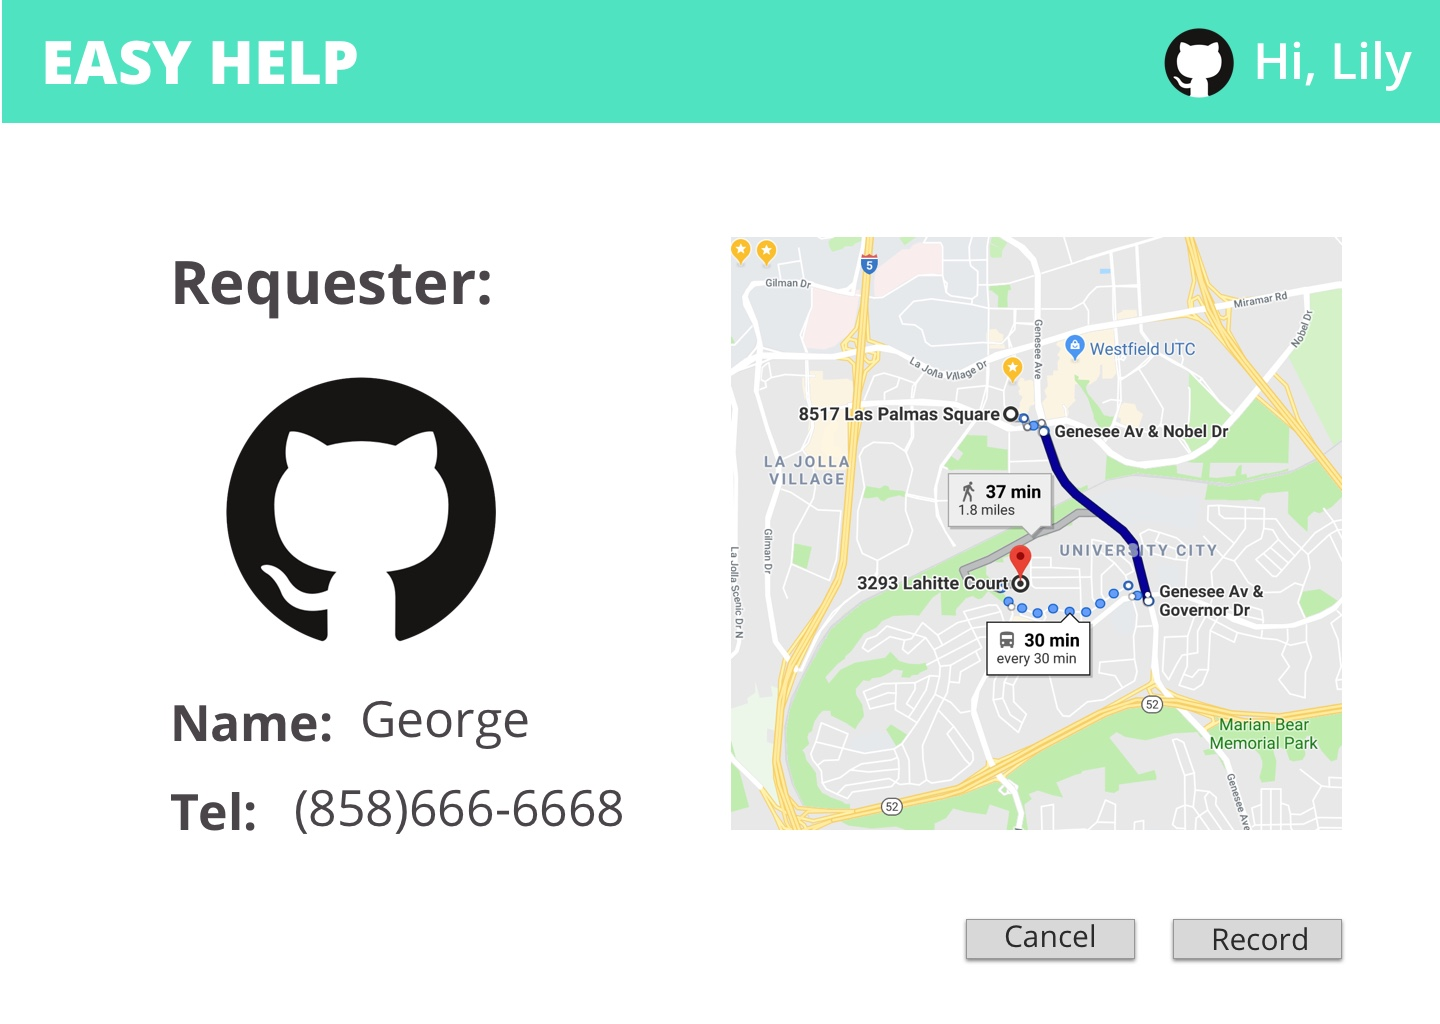
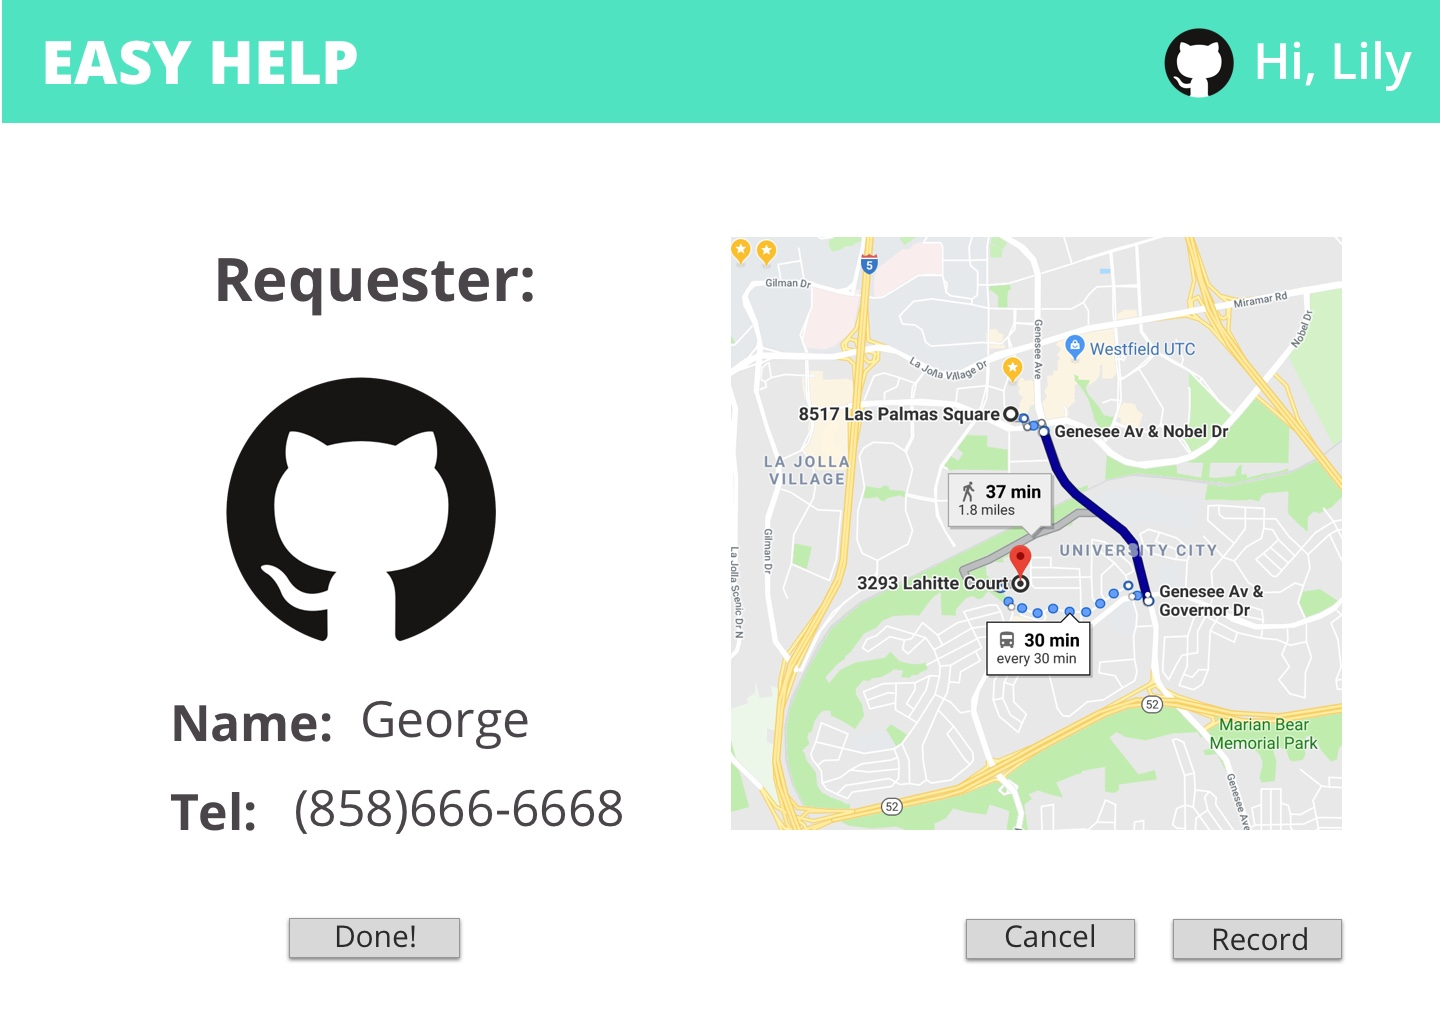
fix some interaction issue

Changed region(s): [[0.125, 0.25, 0.375, 0.3125], [0.1875, 0.875, 0.3438, 0.9375]]

diff --git a/milestone1.md b/milestone1.md
@@ -43,7 +43,15 @@
   ![Review](images/Review.jpg)
 
 ### Prototype 2 (User Click on "Be a volunteer"):
-  ![RequestBoard](images/RequestBoard.jpg)
-  ![VolPage](images/VolPage.jpg)
-  ![Record](images/RecordVol.jpg)
+
+#### Once the users enter the Request Board page, they will be able to see all requests submitted and filter by their preferences. If they find a match, simply click on the ticket to accept.  
+  ![RequestBoard](images/RequestBoard.jpg)  
+
+#### After accepting a ticket, info about the requester will be displayed, including a map showing location, phone number and names. Users could click cancel to cancel the order navigating back to the home page or they could hit record to see all ongoing and past orders.     
+  ![VolPage](images/VolPage.jpg)  
+
+#### At the record page, users could hit back to go back to the previous page.
+  ![Record](images/RecordVol.jpg)  
+
+#### 
   ![Report](images/Report.jpg)
